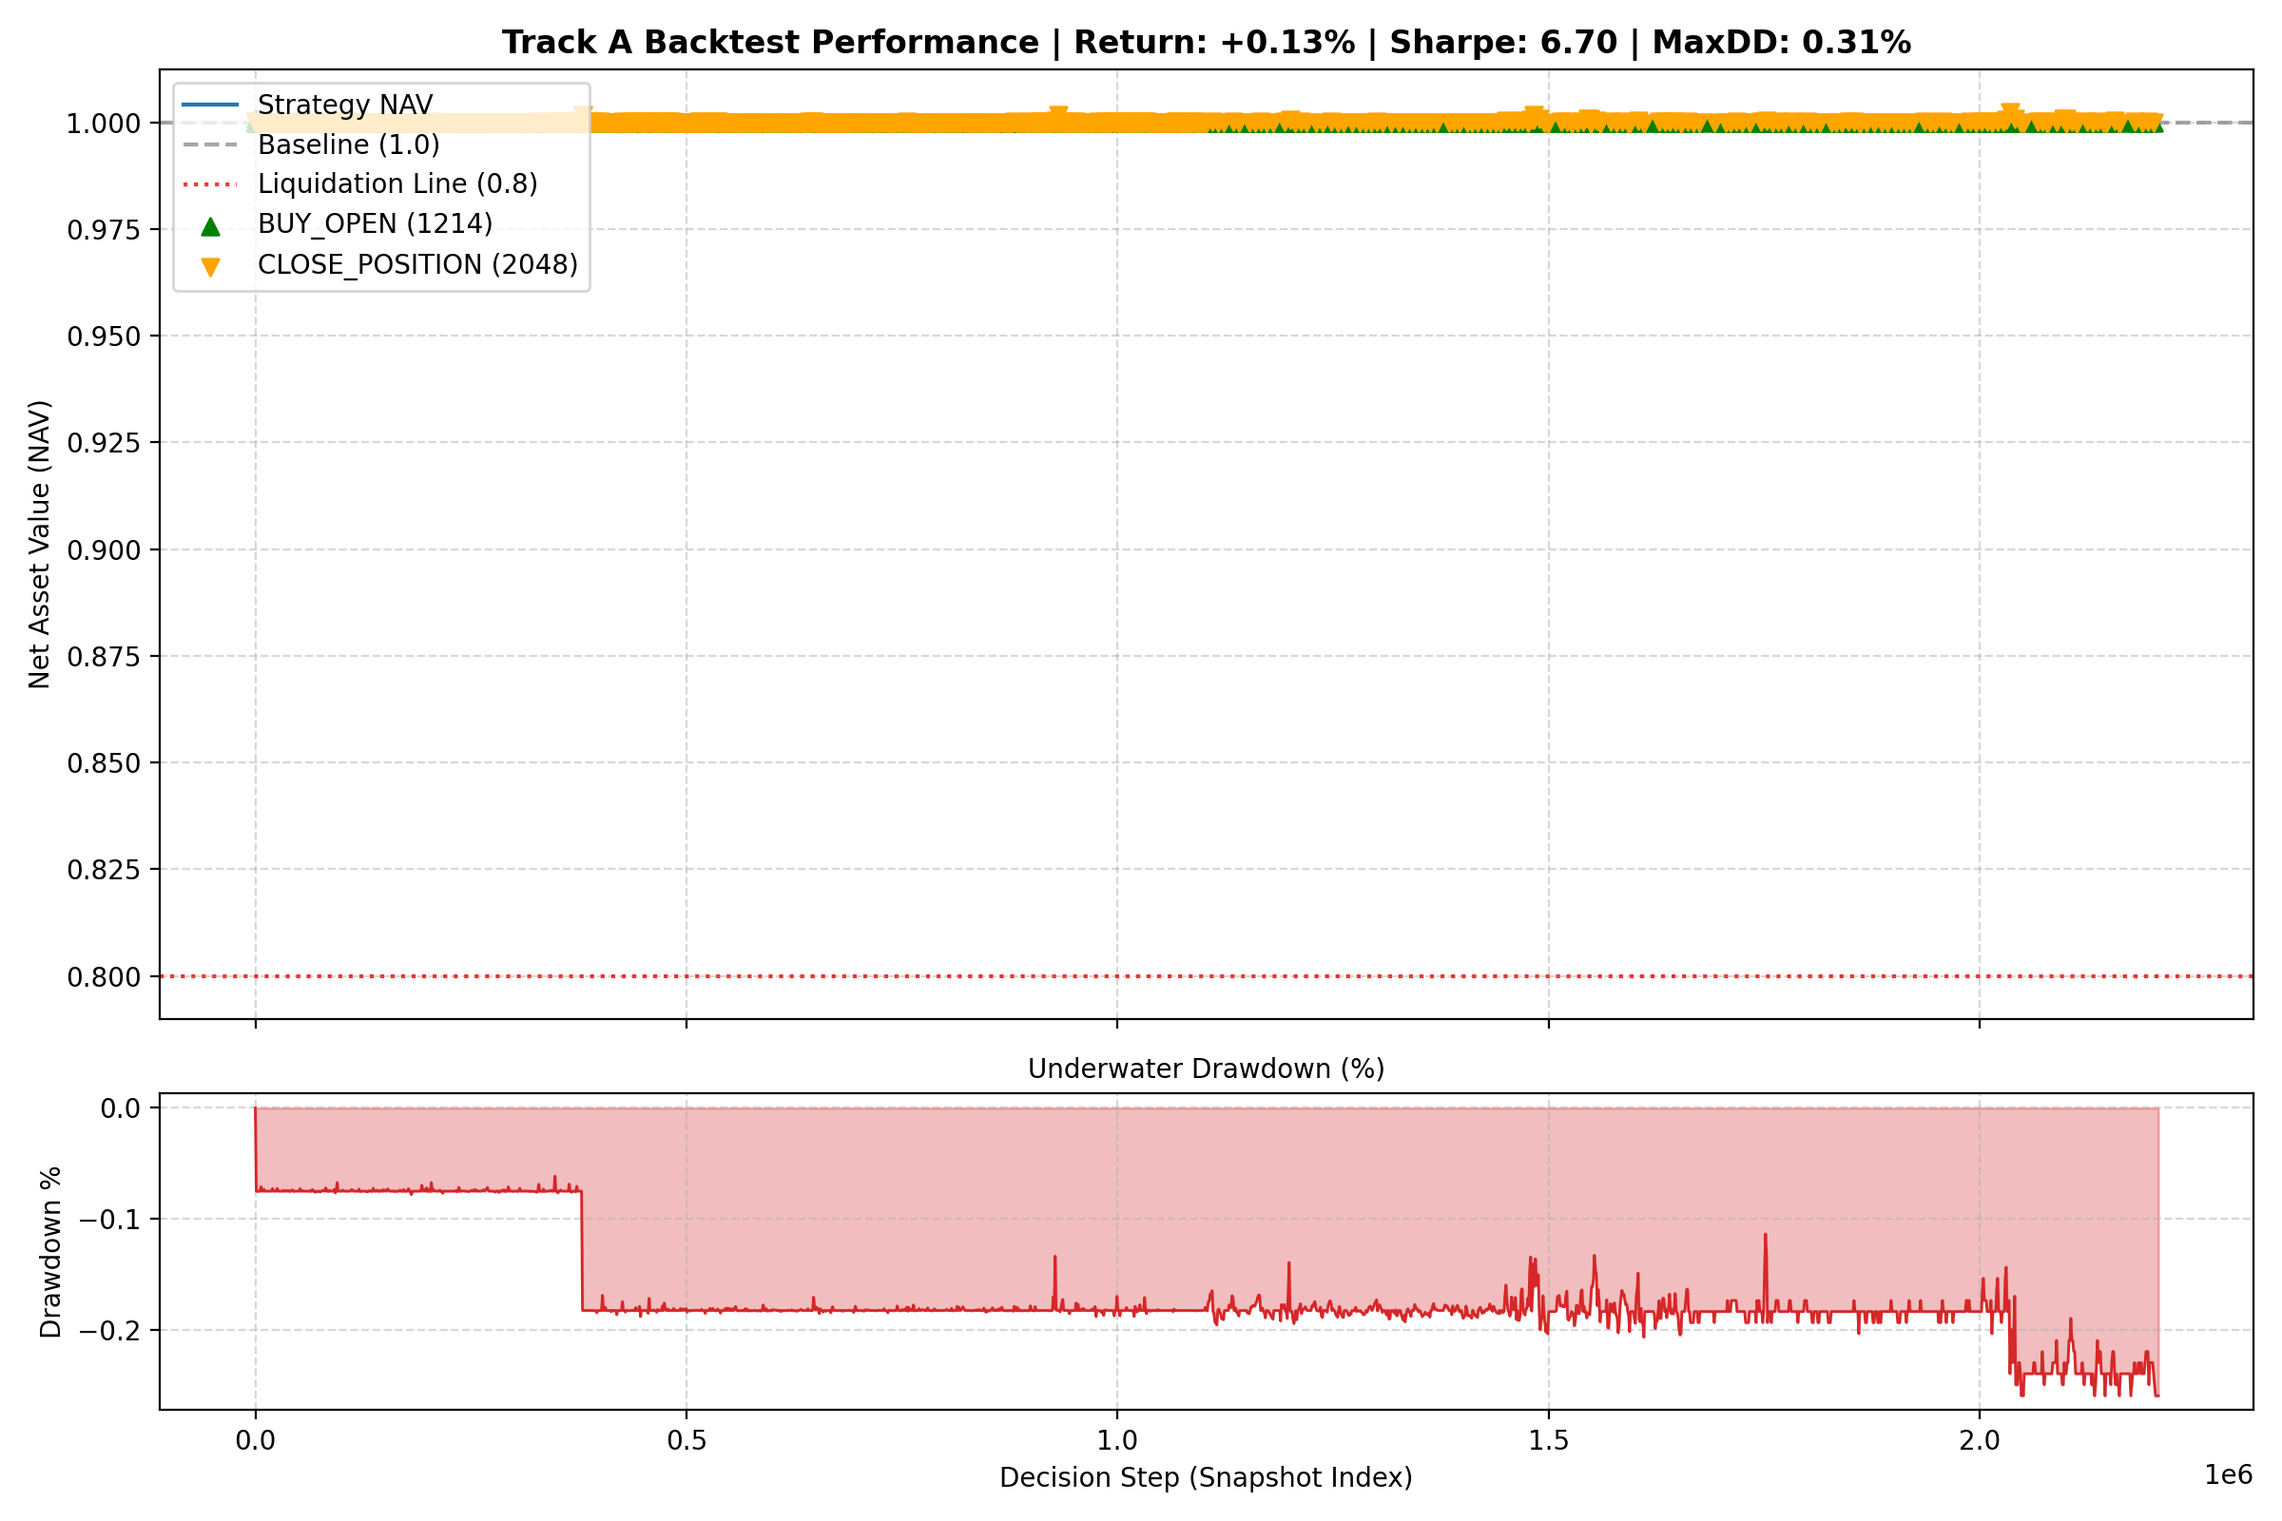
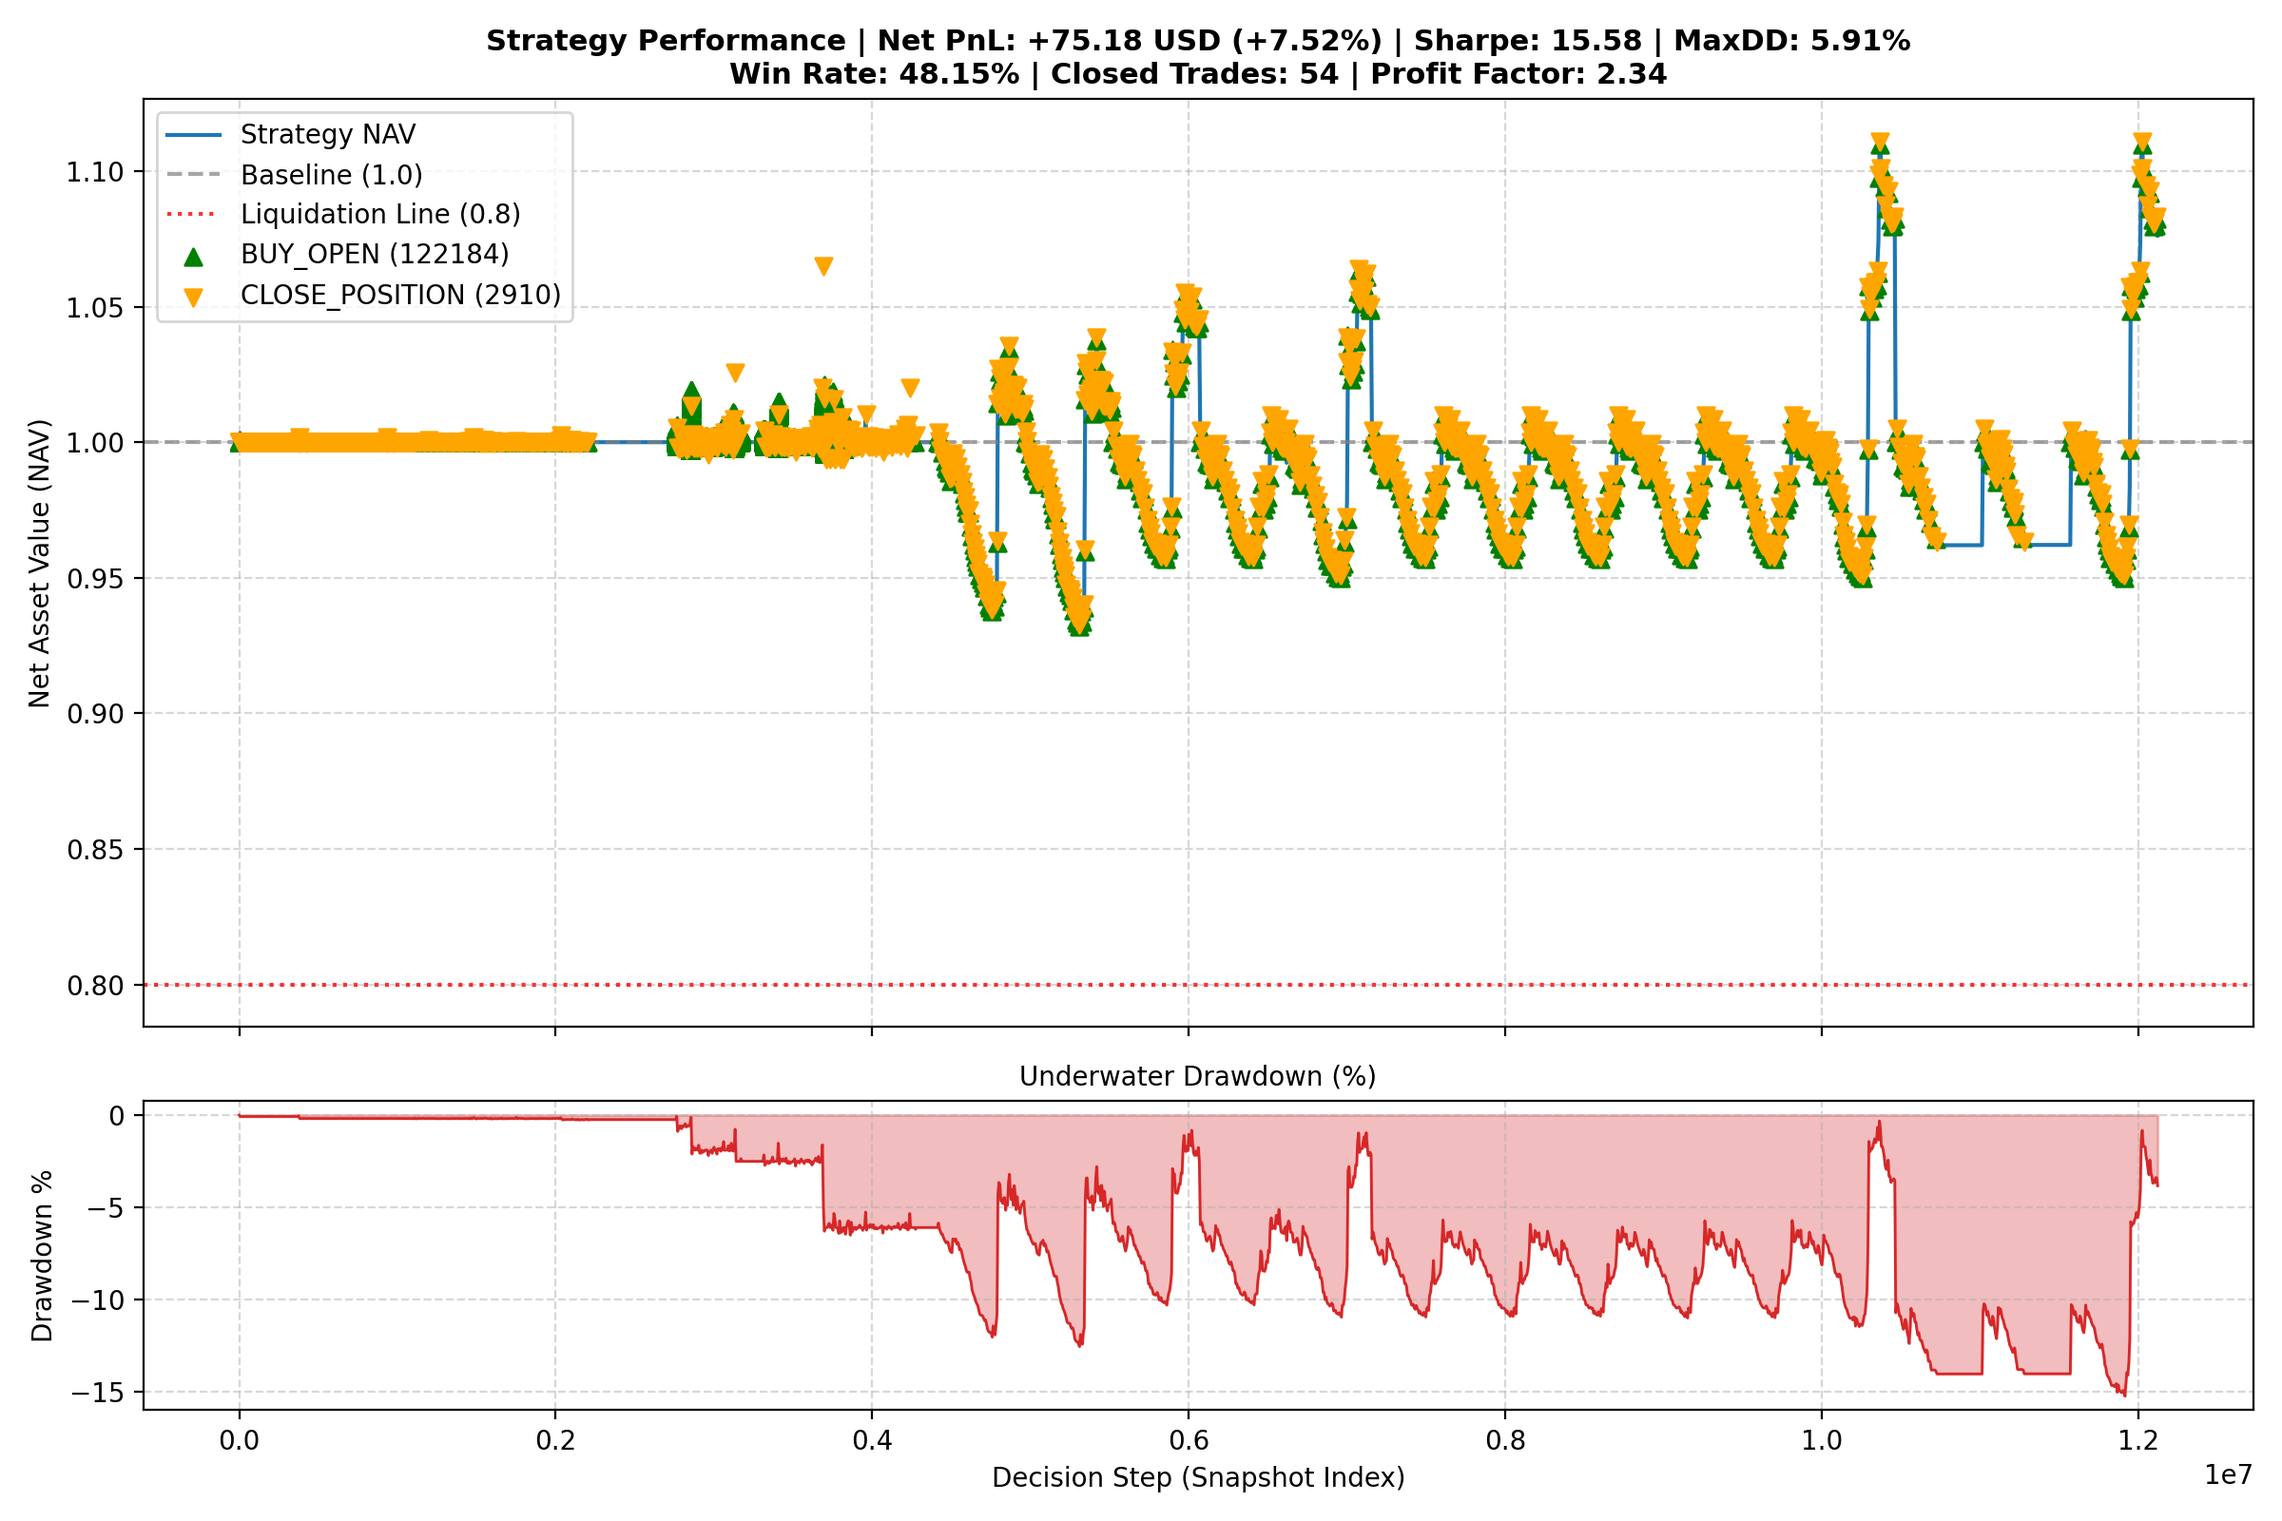
fin track a mock

diff --git a/strategy/adapter.py b/strategy/adapter.py
@@ -3,22 +3,21 @@ from typing import Any, Dict, List, Optional
 from interface.logger import ReasoningLogger
 from strategy.manager import RiskManager
 
-
 class StrategyAdapter:
     def __init__(
         self,
         risk_manager: RiskManager,
         reasoning_logger: Optional[ReasoningLogger] = None,
-        obi_threshold: float = 0.30,
-        default_order_size: float = 0.01,
-        tp_bps: float = 110.0,             
-        sl_bps: float = 35.0,              
-        max_holding_ticks: int = 6000,     
-        max_inventory_qty: float = 0.01,   
-        cooldown_ticks: int = 300,         
-        ema_alpha: float = 0.08,          
-        trend_alpha: float = 0.00033,     
-        max_spread_bps: float = 2.5,      
+        obi_threshold: float = 0.42,
+        default_order_size: float = 0.025,
+        tp_bps: float = 180.0,
+        sl_bps: float = 45.0,
+        max_holding_ticks: int = 8000,
+        max_inventory_qty: float = 0.030,
+        cooldown_ticks: int = 800,
+        ema_alpha: float = 0.08,
+        trend_alpha: float = 0.00033,
+        max_spread_bps: float = 2.5,
     ):
         self.risk_manager = risk_manager
         self.logger = reasoning_logger
@@ -136,11 +135,11 @@ class StrategyAdapter:
 
             if pnl_bps >= self.tp_bps:
                 action = "CLOSE_POSITION"
-                reason = f"Take-Profit triggered (+{pnl_bps:.2f} bps)."
+                reason = f"Take-Profit triggered (+{pnl_bps:.2f} bps >= {self.tp_bps:.1f} bps)."
                 order_params = {"price": features["best_bid"], "quantity": abs(current_qty), "side": "SELL"}
             elif pnl_bps <= -self.sl_bps:
                 action = "CLOSE_POSITION"
-                reason = f"Stop-Loss triggered ({pnl_bps:.2f} bps, SL threshold: -{self.sl_bps:.2f} bps)."
+                reason = f"Stop-Loss triggered ({pnl_bps:.2f} bps <= -{self.sl_bps:.2f} bps)."
                 order_params = {"price": features["best_bid"], "quantity": abs(current_qty), "side": "SELL"}
             elif current_age >= self.max_holding_ticks:
                 action = "CLOSE_POSITION"
@@ -149,29 +148,39 @@ class StrategyAdapter:
 
         if (
             action == "HOLD"
-            and abs(current_qty) < self.max_inventory_qty
+            and abs(current_qty) < 1e-5
             and self.cooldown_counter.get(symbol, 0) == 0
             and spread_bps <= self.max_spread_bps
         ):
             nlp_filter = nlp_intel.get("trade_action_filter", "ALLOW_ALL") if nlp_intel else "ALLOW_ALL"
             directional_bias = nlp_intel.get("directional_bias", 0.0) if nlp_intel else 0.0
+            impact_level = nlp_intel.get("impact_level", "LOW") if nlp_intel else "LOW"
+            confidence = (
+                nlp_intel.get("confidence") or nlp_intel.get("confidence_score") or 0.5
+                if nlp_intel else 0.5
+            )
 
             if (
                 mid_price > trend_price
                 and ema_obi > self.obi_threshold
                 and nlp_filter in ["ALLOW_ALL", "ALLOW_BUY_ONLY"]
+                and directional_bias >= -0.2
             ):
-                if directional_bias >= -0.2:
-                    passed, r_reason, _ = self.risk_manager.evaluate_order(
-                        symbol, "BUY_OPEN", features["best_bid"], self.default_order_size
+                target_size = self.default_order_size
+                if impact_level == "HIGH" and confidence >= 0.80:
+                    target_size = min(self.max_inventory_qty, self.default_order_size * 1.20)
+
+                passed, r_reason, _ = self.risk_manager.evaluate_order(
+                    symbol, "BUY_OPEN", features["best_bid"], target_size
+                )
+                if passed and target_size > 0:
+                    action = "BUY_OPEN"
+                    reason = (
+                        f"Trend 15m Bullish (Price > EMA) with high OBI conviction ({ema_obi:.2f}) & "
+                        f"NLP bias ({directional_bias:+.2f}). {r_reason}"
                     )
-                    if passed:
-                        action = "BUY_OPEN"
-                        reason = (
-                            f"Trend 15m Bullish (Price > EMA) with OBI support ({ema_obi:.2f}). "
-                            f"{r_reason}"
-                        )
-                        order_params = {"price": features["best_bid"], "quantity": self.default_order_size}
+                    order_params = {"price": features["best_bid"], "quantity": round(target_size, 4)}
+                    self.cooldown_counter[symbol] = self.cooldown_ticks
 
         if action == "CLOSE_POSITION":
             self.cooldown_counter[symbol] = self.cooldown_ticks
@@ -189,6 +198,8 @@ class StrategyAdapter:
         }
 
         if self.logger:
+            current_nav = self.risk_manager.calculate_nav()
+            est_leverage = (abs(current_qty) * mid_price) / max(1.0, self.risk_manager.initial_balance)
             self.logger.log_decision(
                 symbol=symbol,
                 market_data=features,
@@ -196,7 +207,7 @@ class StrategyAdapter:
                 logical_deduction=reason,
                 action=action,
                 action_params=order_params,
-                risk_evaluation={"nav": self.risk_manager.calculate_nav()},
+                risk_evaluation={"nav": current_nav, "leverage": est_leverage, "passed": True},
             )
 
         return decision_record

diff --git a/strategy/backtester.py b/strategy/backtester.py
@@ -12,9 +12,9 @@ class Backtester:
         self,
         data_path: str = "data/orderbook.jsonl",
         news_path: str = "data/news_feed.jsonl",
-        initial_balance: float = 10000.0,
-        obi_threshold: float = 0.30,
-        order_size: float = 0.01,
+        initial_balance: float = 1000.0,
+        obi_threshold: float = 0.42,
+        order_size: float = 0.025,
         log_file: str = "logs/backtest_reasoning.jsonl",
         fee_rate: float = 0.0005,
         slippage_bps: float = 0.5,
@@ -28,6 +28,7 @@ class Backtester:
             initial_balance=initial_balance,
             max_leverage=2.0,
             nav_drawdown_limit=0.80,
+            max_single_order_ratio=2.0,
         )
         self.logger = ReasoningLogger(log_file=log_file)
         self.strategy = StrategyAdapter(
@@ -35,6 +36,11 @@ class Backtester:
             reasoning_logger=self.logger,
             obi_threshold=obi_threshold,
             default_order_size=order_size,
+            tp_bps=180.0,
+            sl_bps=45.0,
+            max_holding_ticks=8000,
+            max_inventory_qty=0.030,
+            cooldown_ticks=800,
         )
 
         self.nav_history: List[float] = [1.0]
@@ -62,16 +68,11 @@ class Backtester:
         if not raw_news_list:
             return []
 
-        raw_news_list.sort(key=lambda x: x.get("timestamp", 0))
-        min_news_ts = raw_news_list[0].get("timestamp", 0)
-        
         timeline: List[Dict[str, Any]] = []
+        total_news = len(raw_news_list)
         for idx, news in enumerate(raw_news_list):
             item = dict(news)
-            offset = (news.get("timestamp", 0) - min_news_ts)
-            if offset < 0 or offset > 172800:
-                offset = (idx / max(1, len(raw_news_list))) * 165600.0  
-            item["sim_timestamp"] = sim_start_time + offset
+            item["sim_timestamp"] = sim_start_time + (idx / max(1, total_news)) * 165600.0
             timeline.append(item)
 
         timeline.sort(key=lambda x: x["sim_timestamp"])
@@ -123,7 +124,7 @@ class Backtester:
                 except (ValueError, IndexError):
                     continue
 
-                current_time = event.get("timestamp") or event.get("time") or (line_no * 0.3)
+                current_time = line_no * 0.3
                 if sim_start_time is None:
                     sim_start_time = current_time
                     nlp_timeline = self._load_news_timeline(sim_start_time)
@@ -166,6 +167,7 @@ class Backtester:
         if verbose:
             print("BACKTEST PERFORMANCE SUMMARY")
             print(f"Final NAV         : {metrics['final_nav']:.4f}")
+            print(f"Net PnL (USD)     : {metrics['net_pnl_usd']:+.2f} USD")
             print(f"Total Return      : {metrics['total_return_pct']:+.2f}%")
             print(f"Max Drawdown      : {metrics['max_drawdown_pct']:.2f}%")
             print(f"Sharpe Ratio      : {metrics['sharpe_ratio']:.2f}")
@@ -235,6 +237,8 @@ class Backtester:
             pos["quantity"] = new_qty
             pos["current_price"] = exec_price
 
+        self.risk_manager.current_cash = self.balance
+
         self.trade_history.append({
             "symbol": symbol,
             "action": action,
@@ -246,10 +250,11 @@ class Backtester:
 
     def calculate_metrics(self) -> Dict[str, Any]:
         if not self.nav_history:
-            return {"total_return": 0.0, "max_drawdown": 0.0, "sharpe_ratio": 0.0}
+            return {"total_return_pct": 0.0, "max_drawdown_pct": 0.0, "sharpe_ratio": 0.0, "net_pnl_usd": 0.0}
 
         final_nav = self.nav_history[-1]
         total_return = (final_nav - 1.0) * 100.0
+        net_pnl_usd = (final_nav - 1.0) * self.initial_balance
 
         peak = self.nav_history[0]
         max_drawdown = 0.0
@@ -293,6 +298,7 @@ class Backtester:
         return {
             "initial_balance": self.initial_balance,
             "final_nav": round(final_nav, 4),
+            "net_pnl_usd": round(net_pnl_usd, 2),
             "total_return_pct": round(total_return, 2),
             "max_drawdown_pct": round(max_drawdown * 100.0, 2),
             "sharpe_ratio": round(sharpe_ratio, 2),
@@ -302,6 +308,7 @@ class Backtester:
             "profit_factor": round(profit_factor, 2),
             "total_fees_paid": round(total_fees, 4),
         }
+
 
 if __name__ == "__main__":
     Backtester().run()

diff --git a/tools/visualize.py b/tools/visualize.py
@@ -3,7 +3,6 @@ import os
 from typing import Any, Dict, List
 import matplotlib.pyplot as plt
 
-
 def load_backtest_data(
     log_file: str = "logs/backtest_reasoning.jsonl",
     summary_file: str = "logs/backtest_summary.json",
@@ -24,13 +23,23 @@ def load_backtest_data(
             except Exception:
                 continue
 
-            nav = record.get("decision", {}).get("risk_verification", {}).get("current_nav", 1.0)
+            risk_info = (
+                record.get("risk_evaluation")
+                or record.get("decision", {}).get("risk_verification")
+                or record.get("decision", {}).get("risk_evaluation")
+                or {}
+            )
+            nav = risk_info.get("nav") or risk_info.get("current_nav") or 1.0
+
             nav_series.append(nav)
             timestamps.append(record.get("timestamp", ""))
 
-            action = record.get("decision", {}).get("action")
+            decision_obj = record.get("decision", {})
+            action = record.get("action") or decision_obj.get("action")
+            
             if action in ["BUY_OPEN", "SELL_OPEN", "CLOSE_POSITION"]:
-                price = record.get("decision", {}).get("order_params", {}).get("price")
+                order_params = record.get("action_params") or decision_obj.get("order_params") or {}
+                price = order_params.get("price")
                 trades.append({
                     "index": len(nav_series) - 1,
                     "action": action,
@@ -107,11 +116,20 @@ def plot_performance(
             zorder=5,
         )
 
+    net_pnl = summary.get("net_pnl_usd", 0.0)
+    ret_pct = summary.get("total_return_pct", 0.0)
+    sharpe = summary.get("sharpe_ratio", 0.0)
+    max_dd = summary.get("max_drawdown_pct", 0.0)
+    win_rate = summary.get("win_rate_pct", 0.0)
+    closed_trades_count = summary.get("closed_trades", len(close_trades))
+
     title_text = (
-        f"Track A Backtest Performance | Return: {summary.get('total_return_pct', 0.0):+.2f}% | "
-        f"Sharpe: {summary.get('sharpe_ratio', 0.0):.2f} | MaxDD: {summary.get('max_drawdown_pct', 0.0):.2f}%"
+        f"Strategy Performance | Net PnL: {net_pnl:+.2f} USD ({ret_pct:+.2f}%) | "
+        f"Sharpe: {sharpe:.2f} | MaxDD: {max_dd:.2f}%\n"
+        f"Win Rate: {win_rate:.2f}% | Closed Trades: {closed_trades_count} | Profit Factor: {summary.get('profit_factor', 0.0):.2f}"
     )
-    ax1.set_title(title_text, fontsize=12, fontweight="bold")
+    ax1.set_title(title_text, fontsize=11, fontweight="bold")
+
     ax1.set_ylabel("Net Asset Value (NAV)")
     ax1.legend(loc="upper left")
     ax1.grid(True, linestyle="--", alpha=0.5)
@@ -130,10 +148,6 @@ def plot_performance(
 
     print(f"Performance chart generated: {output_chart}")
 
-def main() -> None:
+if __name__ == "__main__":
     data = load_backtest_data()
     plot_performance(data)
-
-
-if __name__ == "__main__":
-    main()

diff --git a/strategy/manager.py b/strategy/manager.py
@@ -3,17 +3,16 @@ from typing import Any, Dict, Tuple
 class RiskManager:
     def __init__(
         self,
-        initial_balance: float = 10000.0,
+        initial_balance: float = 1000.0,
         max_leverage: float = 2.0,
         nav_drawdown_limit: float = 0.80,
-        max_single_order_ratio: float = 0.30,
+        max_single_order_ratio: float = 2.0,
     ):
         self.initial_balance = initial_balance
         self.current_cash = initial_balance
         self.max_leverage = max_leverage
         self.nav_drawdown_limit = nav_drawdown_limit
         self.max_single_order_ratio = max_single_order_ratio
-
         self.positions: Dict[str, Dict[str, float]] = {}
 
     def update_market_price(self, symbol: str, current_price: float) -> None:
